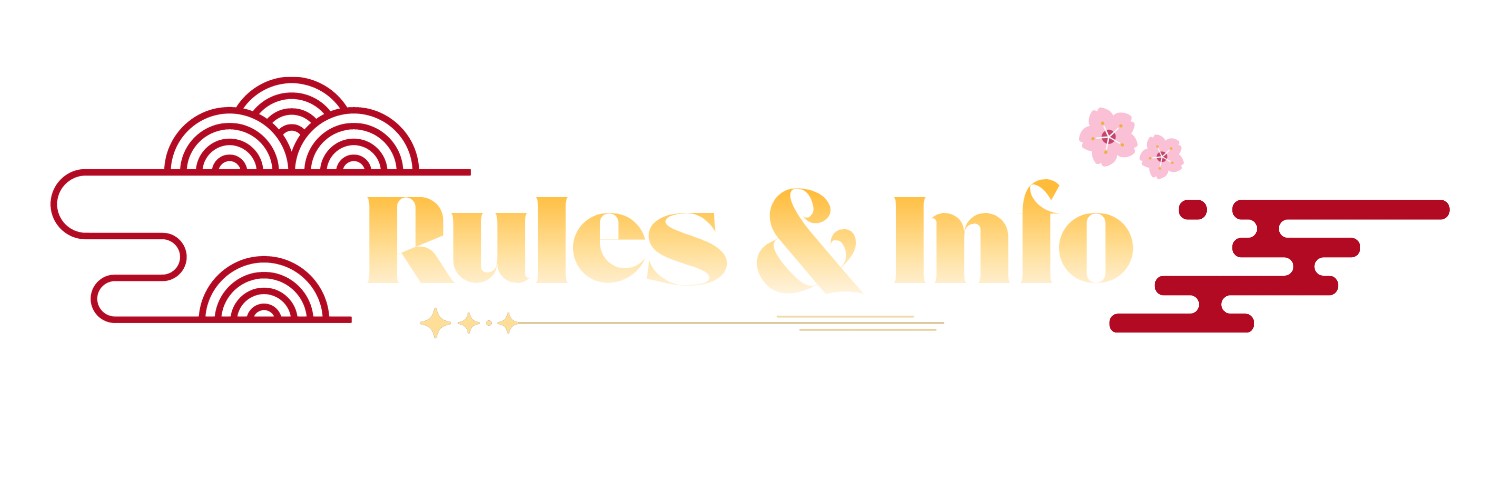
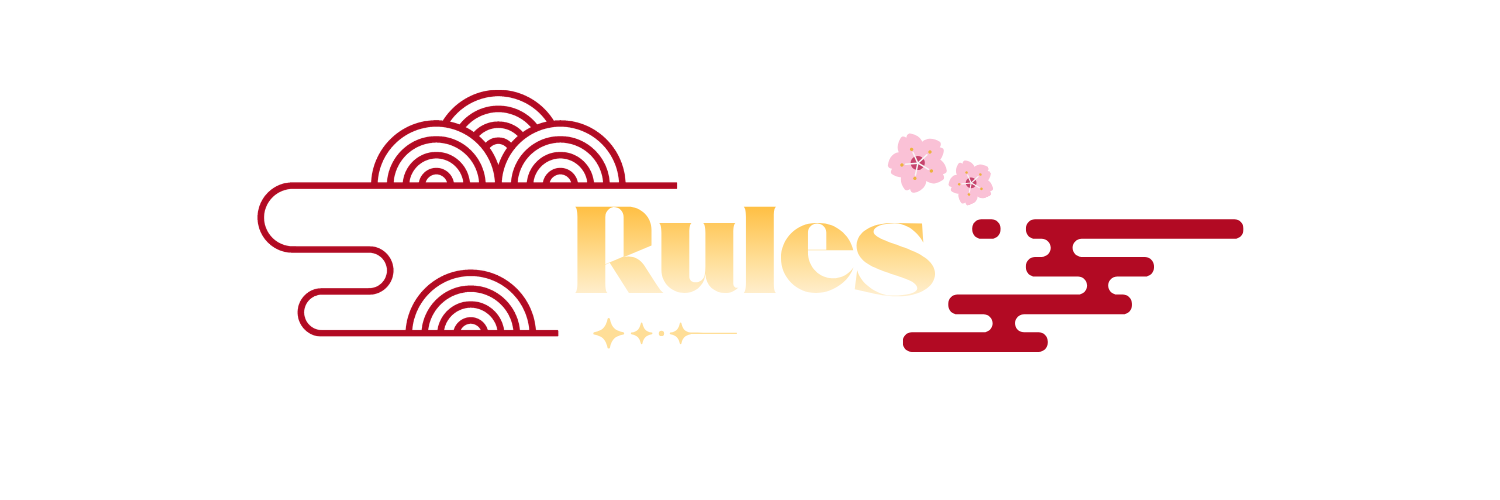
Added logic for joins

Changed region(s): [[0.0307, 0.15, 0.9813, 0.72], [0.7053, 0.21, 0.7973, 0.36], [0.1533, 0.39, 0.184, 0.48]]

diff --git a/bot/cogs/general.py b/bot/cogs/general.py
@@ -7,21 +7,145 @@ from discord.ext import commands
 from bot.core.config import settings
 
 logger = logging.getLogger(__name__)
+
 class RulesInfo(discord.ui.View):
     def __init__(self):
         super().__init__(timeout=None)
         
     @discord.ui.button(label='𑣲 Rules', style=discord.ButtonStyle.gray, custom_id="Rules")
     async def Rules(self, interaction: discord.Interaction, button: discord.ui.Button):
-        await interaction.response.send_message("Rules", ephemeral=True)
+        banner = discord.File('bot/assets/Rules.png')
+        embed = discord.Embed(
+            description="""## 1. BE RESPECTFUL
+            **Jaga kesopanan dan saling menghormati** member lain. Make sure to be kind to each other! Jika ada masalah personal, tolong selesaikan secara private.
+            
+            ## 2. NO NSFW & POLITICS
+            Diperbolehkan membahas apapun di dalam server discord yang sudah disediakan selama **tidak mengandung politik, unsur SARA, pornografi, heavy gore dan semacamnya** yang dapat mengganggu kenyamanan bersama.\n-#  (light gore diperbolehkan asal tidak terlalu sering).
+             
+            ## 3. USE CHANNELS APPROPRIATELY
+            Dimohon untuk membahas chat/topik yang **sesuai dengan channel**.
+             
+            ## 4. NO SPAMMING
+            Dimohon untuk **tidak melakukan spam secara berlebihan**. Chat/pesan yang berpotensi untuk mengganggu aliran chat adalah spam.
+            
+            ## 5. NO INVITES
+            Hanya BPH/I Soushin yang diperbolehkan melakukan Invite di server discord ini.
+            
+            - Teman-teman dimohon untuk **mengubah nama discord menjadi nama panggilan atau nama asli** agar lebih gampang dikenal kami saat diadakan event/hangout dalam server ini. 
+            - Dimohon untuk **meninggalkan jejak berupa reaction** pada chat ini sebagai tanda bahwa kalian sudah membacanya. 
+            - **Masih bingung atau mau nanya**? Silahkan klick button \"About & Contact Us\" untuk menanyakan informasi lebih lanjut!""",
+            color=15496822
+        )
+        embed.set_footer(text="This message is manmade by Soushin: Bot Devs and NOT by AI. Thank you for reading! >u<")
+        await interaction.response.send_message(file=banner, embed=embed, ephemeral=True)
     
     @discord.ui.button(label='✦ Info', style=discord.ButtonStyle.gray, custom_id="Info")
     async def Info(self, interaction: discord.Interaction, button: discord.ui.Button):
-        await interaction.response.send_message("Info", ephemeral=True)
+        banner = discord.File('bot/assets/Information.png')
+        info_buttons = Info()
+        embed = discord.Embed(
+            description="Click the buttons below to learn more about the server!",
+            color=15496822
+        )
+        embed.set_footer(text="This message is manmade by Soushin: Bot Devs and NOT by AI. Thank you for reading! >u<")
+        await interaction.response.send_message(file=banner, embed=embed, ephemeral=True, view=info_buttons)
         
-    @discord.ui.button(label='♪ Resources', style=discord.ButtonStyle.gray, custom_id="Resources")
+    @discord.ui.button(label='♪ About & Contact Us', style=discord.ButtonStyle.gray, custom_id="About&contact")
     async def Resources(self, interaction: discord.Interaction, button: discord.ui.Button):
-        await interaction.response.send_message("Resources", ephemeral=True)
+        banner = discord.File('bot/assets/About & Contact.png')
+        embed = discord.Embed(description="""## 「Soushin」とは？Soushin (相信): Tarumanagara Nihon Bu adalah Unit Kegiatan Mahasiswa (UKM) di Universitas Tarumanagara yang bergerak di bidang Jejepangan dengan tujuan menjadi wadah untuk menampung serta menyalurkan hobi, bakat, dan minat mahasiswa-mahasiswi Universitas Tarumanagara dalam bidang tersebut. Soushin didirikan pada tahun 2016 menjadikannya UKM termuda Universitas Tarumanagara yang kini telah menginjak usia 10 tahun. Di UKM ini, mahasiswa juga dapat mengembangkan keterampilan berorganisasi yang profesional, mandiri, dan berintegritas dengan landasan kekeluargaan.
+                              
+                              Nama Soushin sendiri juga memiliki arti yang berasal dari gabungan dua kata yaitu: Sou (相) yang berarti “Bersama” dan Shin (信) yang berarti “Kepercayaan, Kejujuran, dan Kesetiaan”. Oleh karena itu, nama Soushin menjadi pedoman tersendiri bagi organisasi ini untuk selalu berasaskan kepercayaan dan kekeluargaan yang berorientasi pada budaya Jepang.
+                              
+                              brief explanation about what soushin is. like Soushin: tarumanagara nihon bu adalah sebuah ukm dalam blablabla
+                              
+                              ## Contact Us!
+                              > - <@&1149358801397485699> member dengan role ini adalah seorang BPH. Badan Pengurus Harian adalah struktur inti atau eksekutif yang bertanggung jawab menjalankan kegiatan dan operasional organisasi sehari-hari.
+                              > - <@&1546148492458856468> member dengan role ini merupakan member yang membantu dengan perkembangan bot dan server soushin.
+                              **Jika mempunyai pertanyaan atau masalah**, diharapkan untuk contact member yang memiliki role diatas :D""")
+        await interaction.response.send_message(file=banner, embed=embed, ephemeral=True)
+
+
+class Info(discord.ui.View):
+    def __init__(self):
+        super().__init__(timeout=None)
+
+    @discord.ui.button(label='✿ Kelas', style=discord.ButtonStyle.gray, custom_id="Kelas")
+    async def Kelas(self, interaction: discord.Interaction, button: discord.ui.Button):
+        banner = discord.File('bot/assets/Kelas.png')
+        embed = discord.Embed(
+            description="""## DIVISI COSPLAY
+            > Di kelas cosplay ini, kamu akan menerima pengetahuan seputar dunia Cosplay; mulai dari styling wig, makeup, hingga pembuatan prop yang mendukung cosplay kamu!
+            
+            
+            ## DIVISI MANGA
+            > Di kelas manga, kamu akan diajarkan beberapa hal teknis; seperti komposisi, shading, perspektif, panelling, color theory, dan masih banyak lagi!
+            
+            
+            ## DIVISI BAHASA
+            > Sesuai dengan namanya sendiri, di Kelas Bahasa kamu akan mempelajari seputar bahasa Jepang, mulai dari huruf-huruf (Hiragana, Katakana, dan yang paling ditakuti yaitu Kanji), kosa kata (单語), partikel, pola kalimat, dan masih banyak lagi!
+            ────────────────────────
+            You've scrolled this far? Keren banget! Here are some funfacts for you!
+            ### Funfacts Kelas Soushin!
+            
+            1. Divisi Manga terkadang mengadakan kegiatan yang berkaitan dengan seni, seperti Gartic Phone, art collab, hingga art competition, lho!
+            2. Selain mengadakan berbagai program kerja, Soushin juga sering mengadakan kegiatan bonding di luar kampus yang tidak kalah seru!
+            3. Kelas Divisi Bahasa tidak hanya membahas teori bahasa Jepang, tetapi juga sering mengadakan praktik atau hands-on learning agar pembelajaran terasa lebih interaktif!
+            4. Ulang tahun Soushin, atau Soushin no Tanjoubi, diperingati setiap tanggal 24 Juni!
+            5. Dalam kelas Divisi Cosplay, kamu akan diajarkan cara menggunakan berbagai macam bahan dan teknik untuk mewujudkan cosplay-mu menjadi nyata!
+            6. Soushin didirikan pada tahun 2016, menjadikannya UKM termuda di UNTAR!
+            7. Maskot utama Soushin memiliki nama lengkap, yaitu Aiba Makoto!
+            8. Setiap tahun, Soushin menerbitkan majalah Papercrane yang merangkum berbagai kenangan dan perjalanan yang telah kami lalui bersama!
+            9. Harukaze Festival merupakan program kerja terbesar Soushin. Jadi, jangan lupa untuk ikut memeriahkannya pada volume berikutnya, ya!
+            10. Nama Soushin merupakan gabungan dari Sou (相), yang memiliki makna “bersama”, dan Shin (信), yang bermakna “kepercayaan, kejujuran, dan kesetiaan.”""",
+            color=15496822
+        )
+        embed.set_footer(text="This message is manmade by Soushin: Bot Devs and NOT by AI. Thank you for reading! >u<")
+        await interaction.response.send_message(file=banner, embed=embed, ephemeral=True)
+
+
+    @discord.ui.button(label='✿ Proker', style=discord.ButtonStyle.gray, custom_id="Proker")
+    async def Proker(self, interaction: discord.Interaction, button: discord.ui.Button):
+        banner = discord.File('bot/assets/Proker.png')
+        embed = discord.Embed(
+            description="""## WELCOMING PARTY
+            > Acara pembuka Soushin sebagai penyambut anggota baru dan memperkenalkan Soushin: Tarumanagara: Nihon Bu. 
+            
+            
+            ## GASSHUKU CAMP
+            > Program yang diadakan untuk mempererat ikatan serta membangun kebersamaan antara anggota selama tiga hari dan dua malam di luar kampus. 
+            
+            
+            ## NIHONGO CONTEST
+            > Ajang perlombaan yang berfokus pada Bahasa Jepang yang terdiri dari 3 lomba, yaitu Anime Dubbing, J-Song, dan Cerdas Cermat. 
+            
+            
+            ## PELATIHAN DASAR KEORGANISASIAN
+            > Pelatihan bagi anggota kepengurusan sebagai wadah pembekalan Badan Pengurus Harian (BPH) baru agar bisa lebih matang dan siap menjalankan roda organisasi.
+            
+            
+            ## COMPANY VISIT
+            > Kunjungan ke instansi eksternal di luar kampus dengan tujuan memperkaya pengetahuan peserta kunjungan. 
+            
+            
+            ## BAKTI SOSIAL
+            > Timbal-balik kepada masyarakat melalui program pelestarian lingkungan dan donasi secara sukarela. 
+            
+            
+            ## PHOTOBOOK COSPLAY
+            > Kegiatan dokumentasi yang dilakukan pada studio in-house oleh anggota bagian dari divisi cosplay, hasil foto akan dipublikasikan dalam bentuk dokumentasi dan dijilid dalam satu buku. 
+            
+            
+            ## PAPERCRANE
+            > Majalah yang merangkum seluruh kegiatan UKM Soushin: Tarumanagara Nihon Bu ke dalam artikel lalu dipublikasikan secara fisik dan digital.
+            
+            
+            ## HARUKAZE FESTIVAL
+            > Puncak program kerja Soushin yang terdiri dari berbagai jenis perlombaan serta art market, menjadi wadah bagi para creative talent dari berbagai fandom dan komunitas penggemar budaya Jepang lainnya.""",
+            color=15496822)
+        embed.set_footer(text="This message is manmade by Soushin: Bot Devs and NOT by AI. Thank you for reading! >u<")
+        await interaction.response.send_message(file=banner, embed=embed, ephemeral=True)
+        
 
 class General(commands.Cog):
     def __init__(self, bot):
@@ -37,14 +161,20 @@ class General(commands.Cog):
         
     @commands.Cog.listener()
     async def on_ready(self):
-        banner = discord.File('bot/assets/Rules.png')
-        rules_info_button = RulesInfo()
         channel_id = settings.RULES_INFO_ID
         channel = self.bot.get_channel(channel_id)
-        embed = discord.Embed(
-            description="Help to you"
-        )
-        await channel.send(file=banner,embed=embed, view=rules_info_button)
+        async for message in channel.history(limit=500):
+            if message.author == self.bot.user:
+                try:
+                    await message.delete()
+                    logger.info("Message was delete succes")
+                except discord.HTTPException as e:
+                    logger.info(f"Error because of {e}")
+        
+        logger.info("Made the Rules and Info")
+        banner = discord.File('bot/assets/Rules & Info.png')
+        rules_info_button = RulesInfo()
+        await channel.send(file=banner, view=rules_info_button)
          
 
 async def setup(bot: commands.Bot):

diff --git a/bot/cogs/soushin.py b/bot/cogs/soushin.py
@@ -26,7 +26,7 @@ class Soushin(commands.Cog):
         )
         
         await interaction.response.send_message(embed=embed, view=proker)
-        
+    
     
 async def setup(bot: commands.Bot):
     await bot.add_cog(Soushin(bot))
